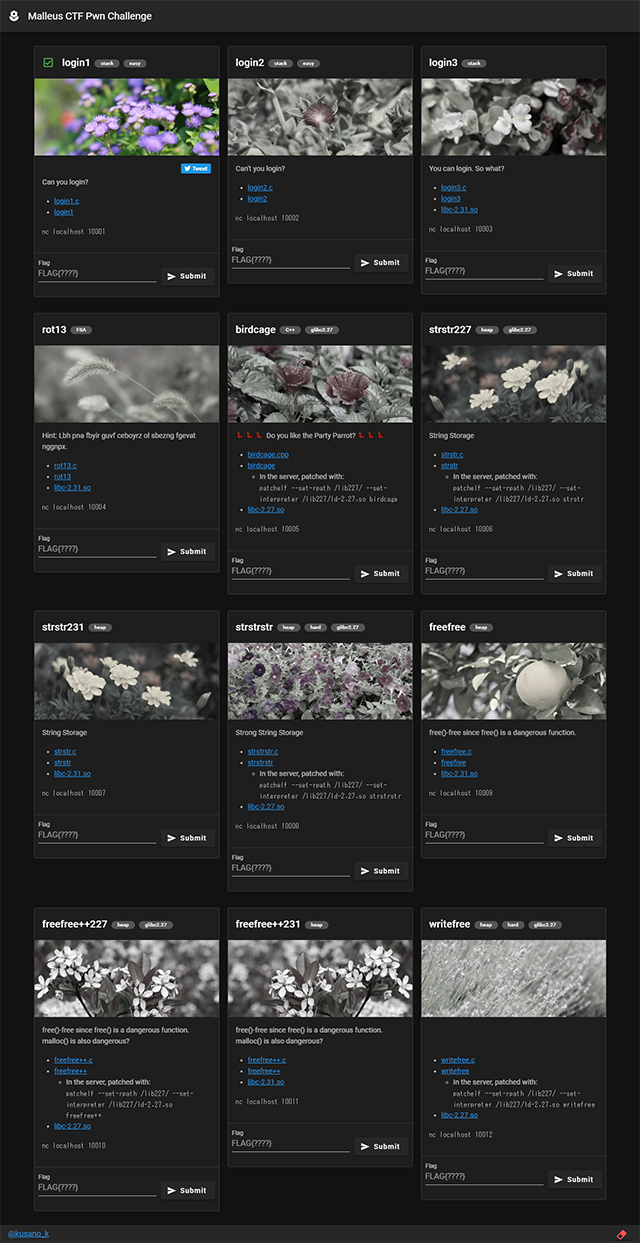
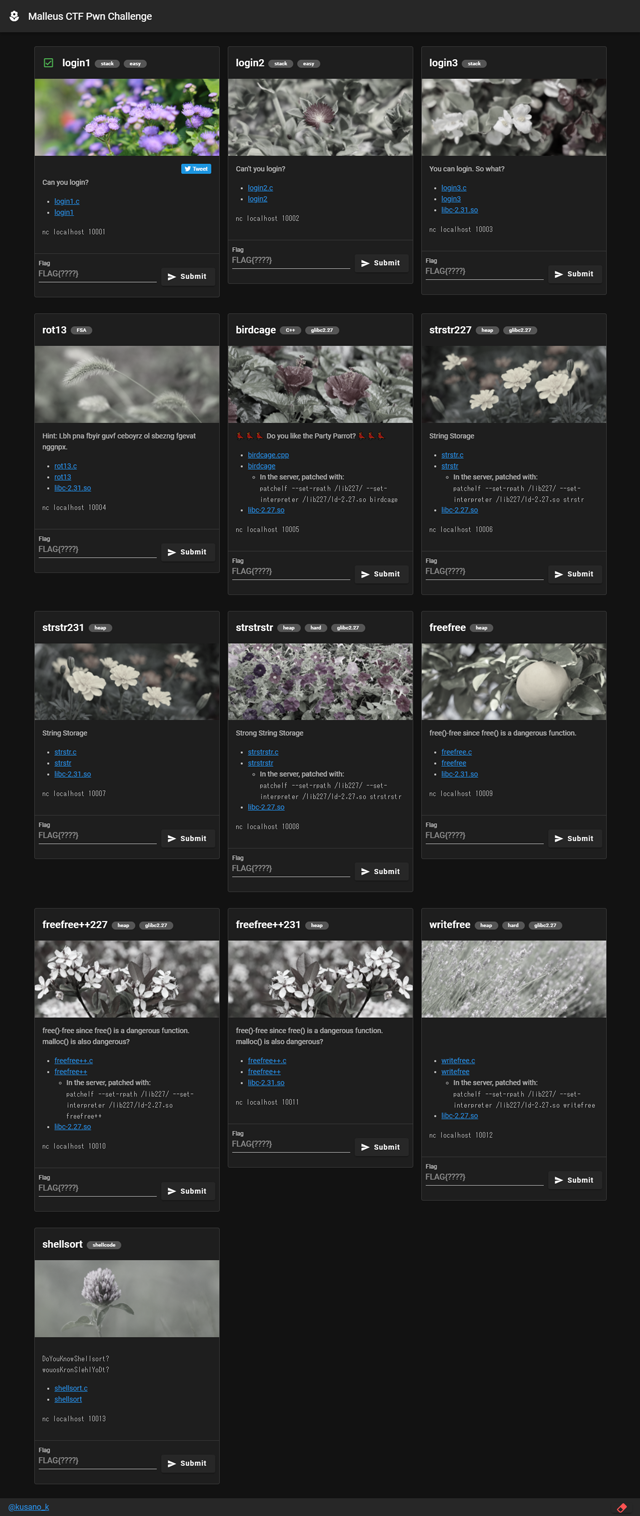
問題shellsortを追加

diff --git a/files/shellsort.c b/files/shellsort.c
@@ -1,0 +1,36 @@
+//  gcc shellsort.c -o shellsort -z execstack -fpie -fcf-protection=none
+#include <stdio.h>
+#include <unistd.h>
+
+void setup()
+{
+    alarm(60);
+    setvbuf(stdin, NULL, _IONBF, 0);
+    setvbuf(stdout, NULL, _IONBF, 0);
+    setvbuf(stderr, NULL, _IONBF, 0);
+}
+
+unsigned char shell[256];
+
+void shellsort()
+{
+    int i, j;
+    for (i=2; i<256; i+=2)
+        for (j=i; j>=2 && shell[j-2]<shell[j]; j-=2)
+        {
+            //  swap shell[j-2] and shell[j]
+            shell[j-2] ^= shell[j];
+            shell[j] ^= shell[j-2];
+            shell[j-2] ^= shell[j];
+        }
+}
+
+int main()
+{
+    setup();
+
+    printf("Your shell code: ");
+    scanf("%255s", shell);
+    shellsort();
+    ((void (*)(void))shell)();
+}

diff --git a/files/birdcage.cpp b/files/birdcage.cpp
@@ -1,4 +1,4 @@
-//  g++ birdcage.cpp -o birdcage -std=c++17 -no-pie -fcf-protection=none
+//  g++ birdcage.cpp -o birdcage -std=c++17 -no-pie
 #include <iostream>
 #include <string>
 #include <typeinfo>

diff --git a/files/login3.c b/files/login3.c
@@ -25,5 +25,5 @@ int main()
     if (strcmp(id, "admin") == 0)
         printf("Login Succeeded\n");
     else
-        printf("Invalid ID or password\n");
+        printf("Invalid ID\n");
 }

diff --git a/README.md b/README.md
@@ -10,7 +10,7 @@ Dockerで動作します。
 Docker Hubからインストールする場合。
 
 ```
-docker run --rm -it -p 10080:80 -p 10001-10012:10001-10012 kusanok/ctfpwn:2
+docker run --rm -it -p 10080:80 -p 10001-10013:10001-10013 kusanok/ctfpwn
 ```
 
 このGitHubリポジトリからダウンロードしてビルドする場合。
@@ -19,7 +19,7 @@ docker run --rm -it -p 10080:80 -p 10001-10012:10001-10012 kusanok/ctfpwn:2
 git clone https://github.com/kusano/ctfpwn_challenge.git
 cd ctfpwn_challenge
 docker build -t ctfpwn .
-docker run --rm -it -p 10080:80 -p 10001-10012:10001-10012 ctfpwn
+docker run --rm -it -p 10080:80 -p 10001-10013:10001-10013 ctfpwn
 ```
 
 ブラウザで http://localhost:10080 を開いてください。
